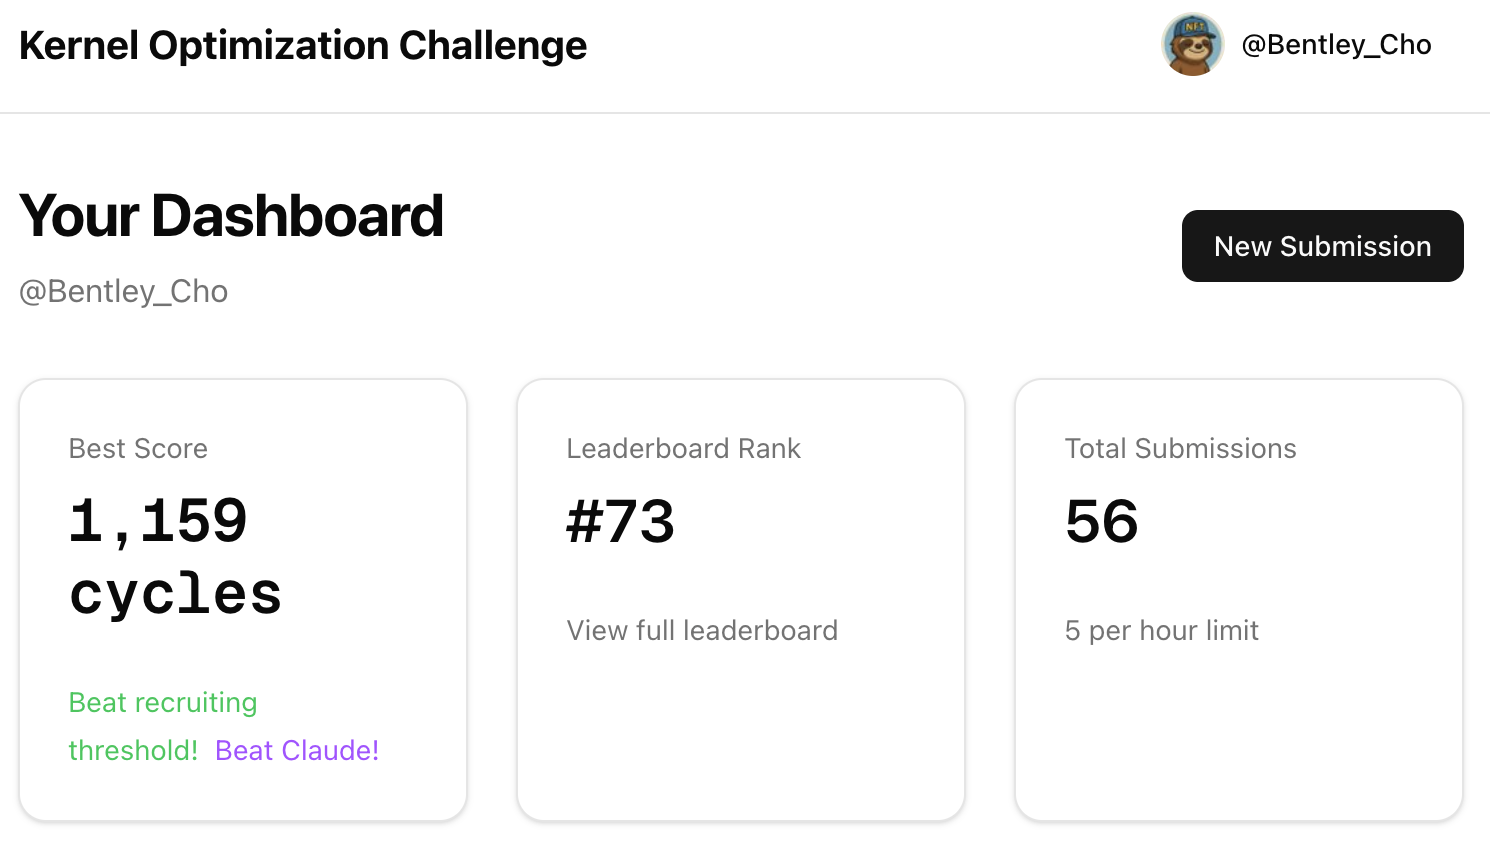
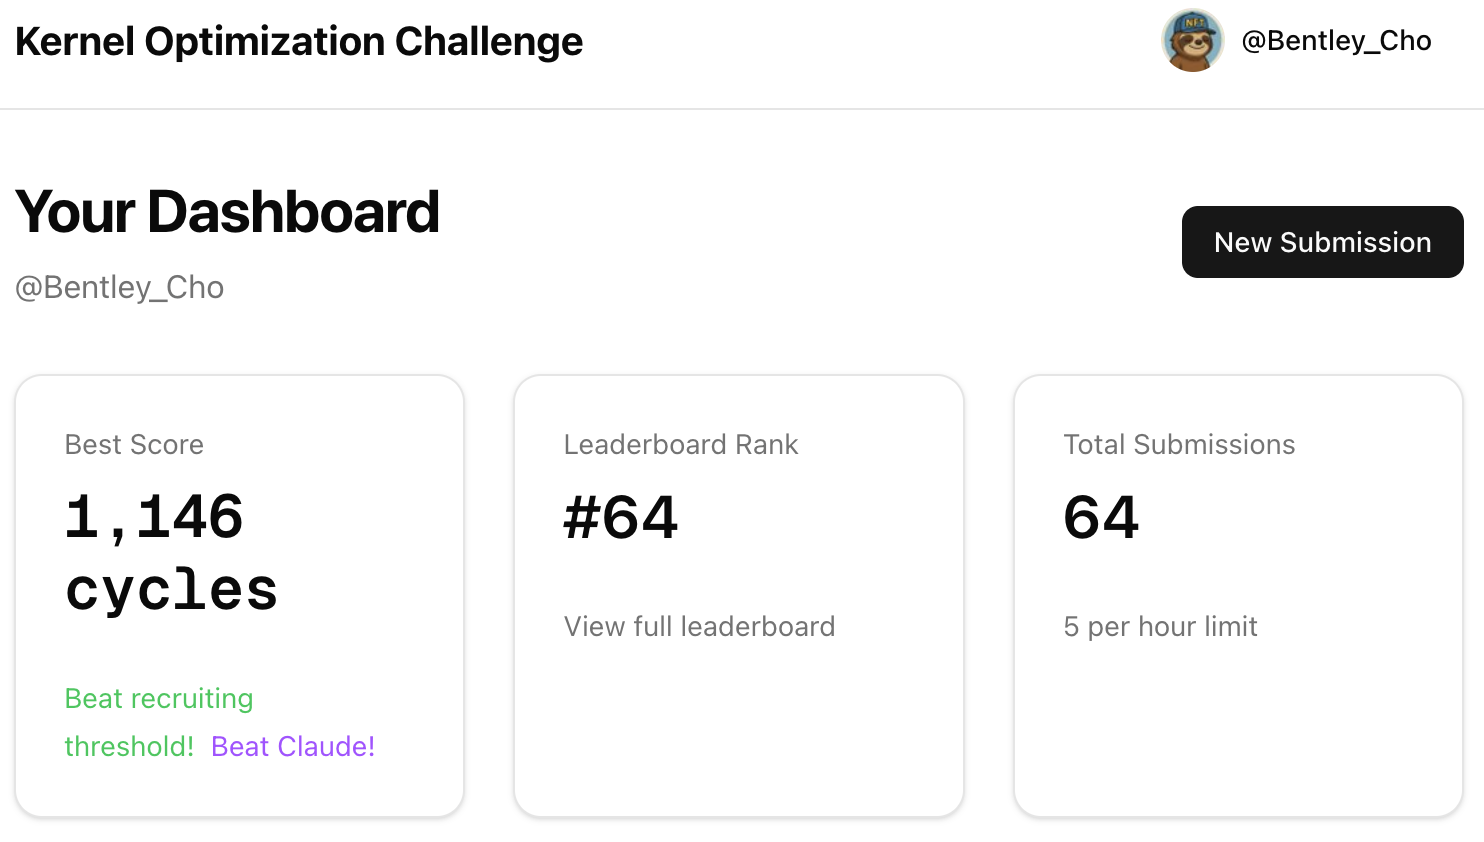
Update Kernel Optimization Challenge to #64 (1,146 cycles)

diff --git a/README.md b/README.md
@@ -22,12 +22,12 @@
 
 ### ⚡ Kernel Optimization Challenge
 
-[![Kernel Optimization](https://img.shields.io/badge/Rank_%2373-1,159_cycles-00C853?style=for-the-badge&labelColor=1a1a2e)](https://www.kerneloptimization.fun/)
+[![Kernel Optimization](https://img.shields.io/badge/Rank_%2364-1,146_cycles-00C853?style=for-the-badge&labelColor=1a1a2e)](https://www.kerneloptimization.fun/)
 [![Beat Claude](https://img.shields.io/badge/✓_Beat_Claude-00C853?style=for-the-badge&labelColor=1a1a2e)](https://www.kerneloptimization.fun/)
 [![Recruiting Threshold](https://img.shields.io/badge/✓_Beat_Recruiting_Threshold-00C853?style=for-the-badge&labelColor=1a1a2e)](https://www.kerneloptimization.fun/)
 
 <a href="https://www.kerneloptimization.fun/">
-  <img src="assets/kernel-optimization-rank.png" alt="Kernel Optimization Challenge - Rank #73" width="600"/>
+  <img src="assets/kernel-optimization-rank.png" alt="Kernel Optimization Challenge - Rank #64" width="600"/>
 </a>
 
 *Anthropic's low-level performance optimization competition*
@@ -43,7 +43,7 @@ Software Engineer specializing in **quantitative trading systems** and **blockch
 - 🏗 **Coinhelio Founder** — Building institutional-grade crypto analytics and execution infrastructure
 - 📊 **Quantitative Systems** — Developing arbitrage engines, market-making algorithms, and cross-exchange hedging strategies
 - ⛓ **Web3 Development** — Smart contract development, DeFi protocol integration, and on-chain data analysis
-- ⚡ **[Kernel Optimization Challenge](https://www.kerneloptimization.fun/)** — Ranked **#73** (1,159 cycles) - Beat Claude!
+- ⚡ **[Kernel Optimization Challenge](https://www.kerneloptimization.fun/)** — Ranked **#64** (1,146 cycles) — Beat Claude
 - 🎓 **CS @ UMD** — Computer Science, University of Maryland - College Park
 
 ---
